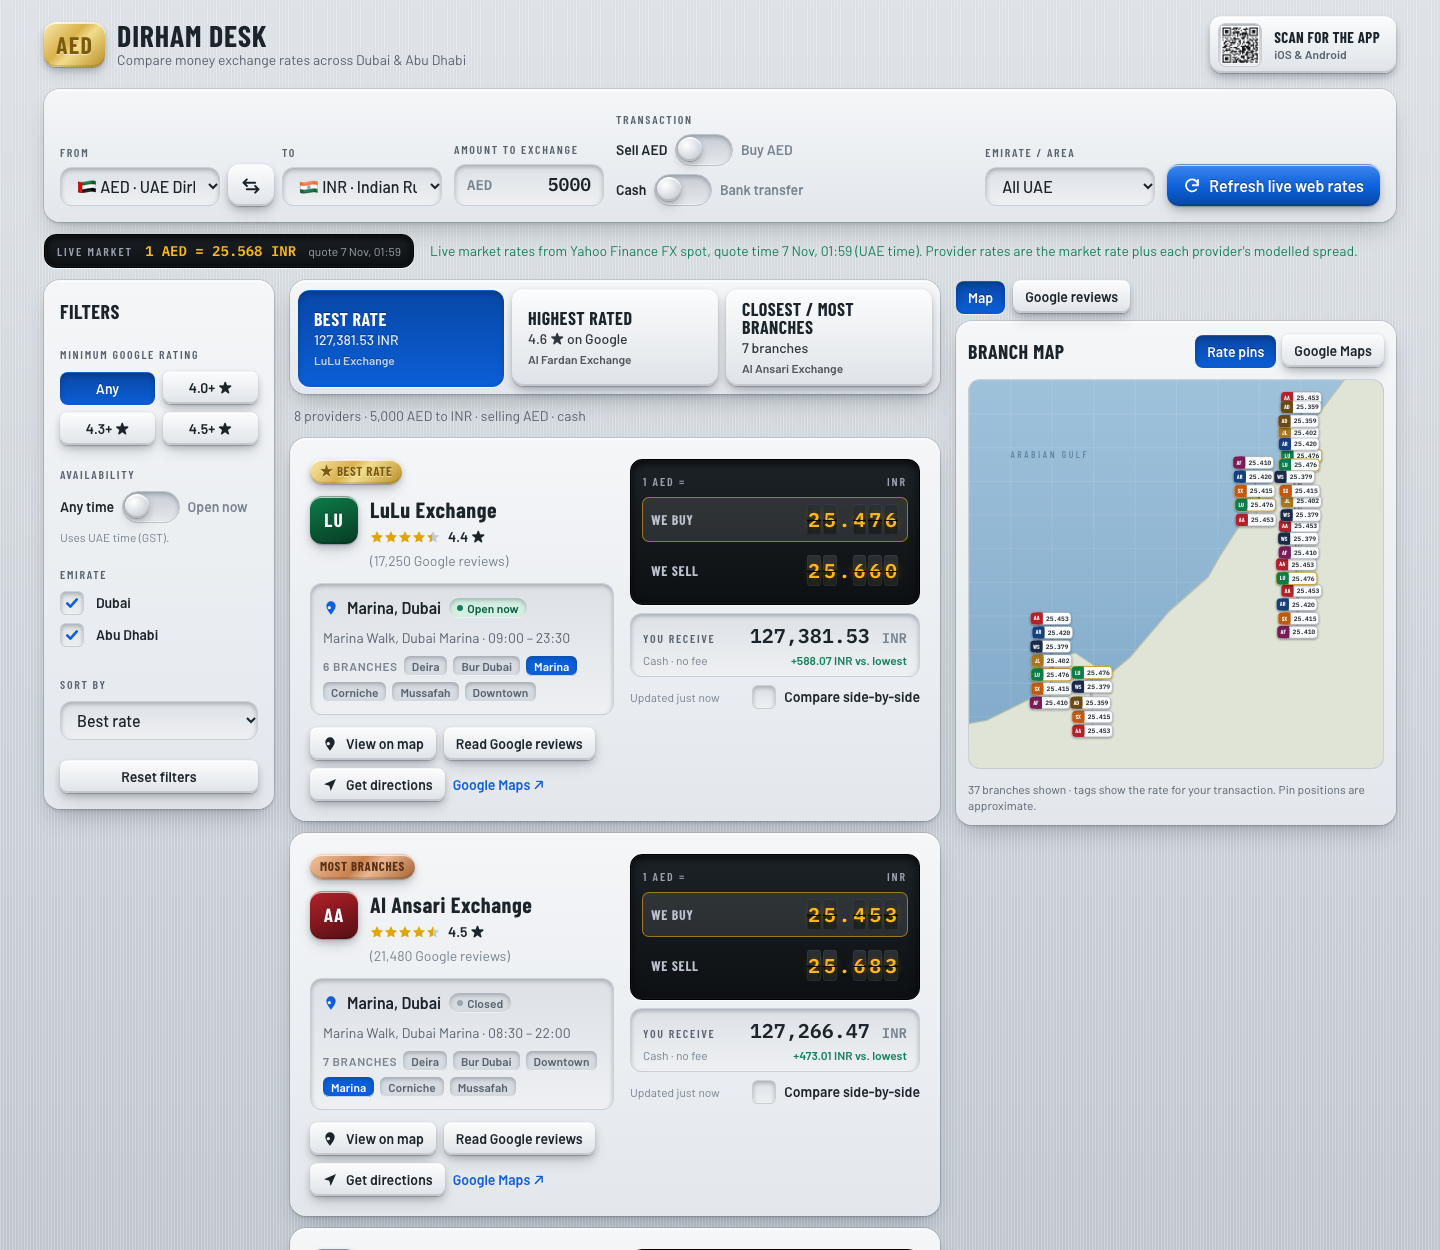
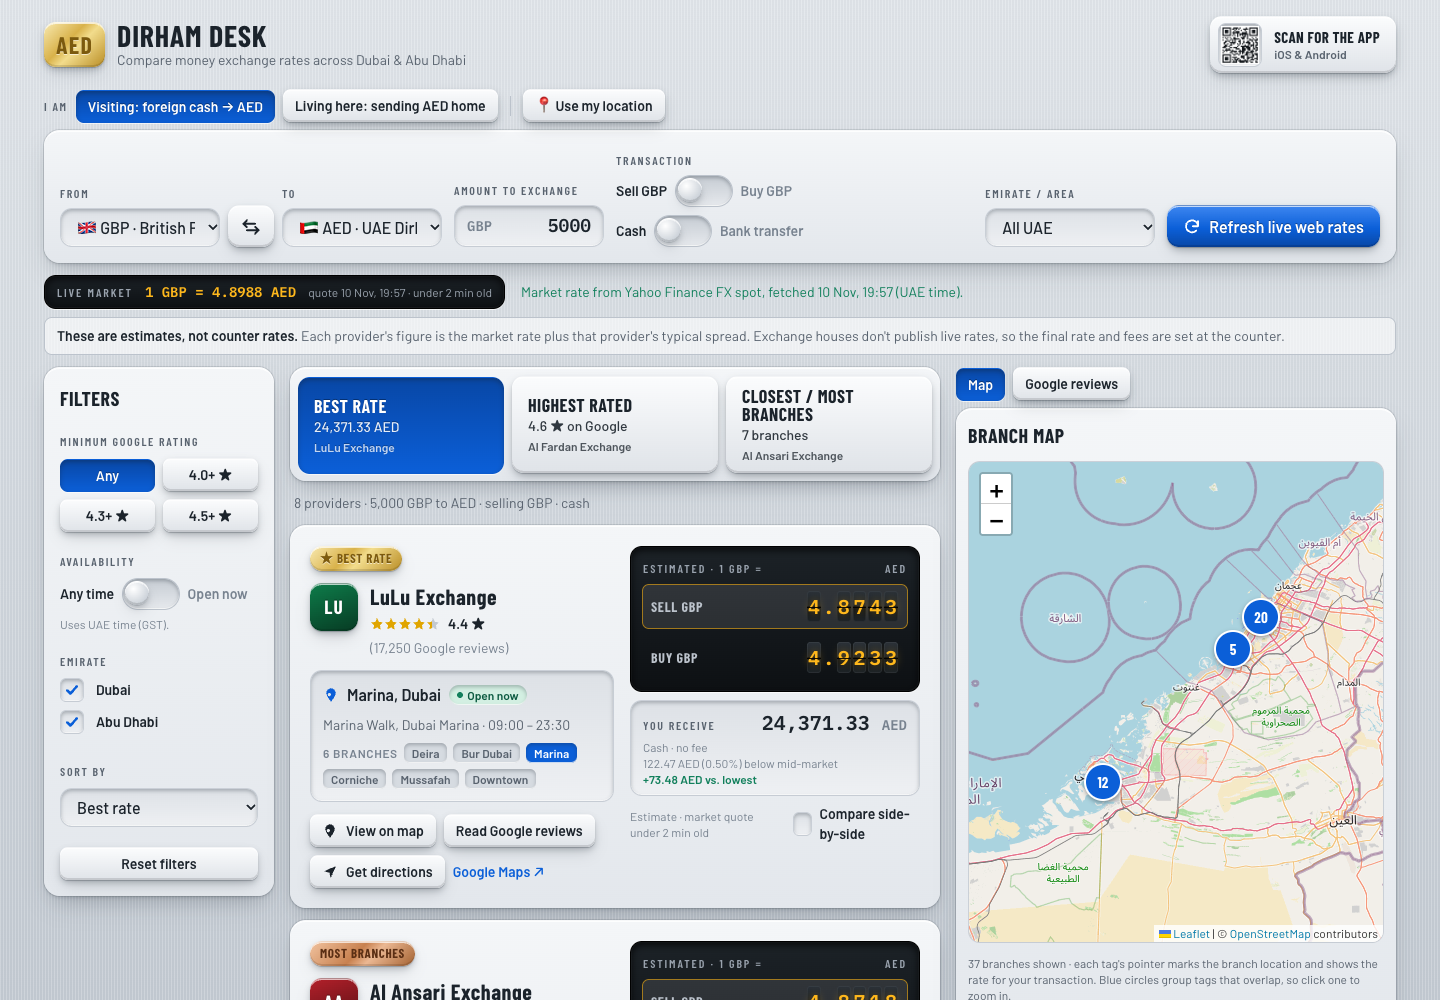
Refresh README screenshot and map/location docs

diff --git a/README.md b/README.md
@@ -40,14 +40,15 @@ Dirham Desk is a React single-page app that lines up exchange houses (Al Ansari,
 ### Results
 - **Three quick-sort tabs** in the Skyscanner style: *Best Rate*, *Highest Rated*, *Closest / Most Branches*. Each tab shows its current winner as a summary line.
   - *Closest* ranks by distance from the selected neighbourhood. With a whole-emirate filter it ranks by branch count.
-- **Provider cards** show the logo plate, Google rating and review count, the nearest matching branch, an open/closed pill (UAE time), branch chips to switch branch, a split-flap board with *We buy* and *We sell* rates, the converted total, fee, savings against the worst offer, and a last-updated line.
+- **Provider cards** show the logo plate, Google rating and review count, the nearest matching branch, an open/closed pill (UAE time), branch chips to switch branch, a split-flap board with estimated *Sell* and *Buy* rates, the converted total, fee, savings against the worst offer, the cost versus the mid-market rate, and the age of the market quote.
 - **Metal badges** mark *Best rate* (gold), *Top rated* (steel) and *Most branches* (copper).
 - **Side-by-side tray**: tick "Compare side-by-side" on 2 to 4 cards and a pinned multi-column table opens. The best value in each row is highlighted.
 - **Left sidebar filters**: minimum Google rating, open now, emirate checkboxes, sort order, reset.
 
 ### Map and reviews
-- **Rate pins map** shows every filtered branch as a tag carrying the provider mark and the rate for your transaction. Tags avoid each other, with leader lines back to the true position. The map zooms to fit the visible pins.
-- **Google Maps tab** embeds the selected branch from Google.
+- **Rate pins map** is a real map (Leaflet on OpenStreetMap tiles). Every filtered branch is a tag carrying the provider mark and the rate for your transaction, and the tag's pointer sits exactly on the branch coordinate. Tags that would overlap group into a count circle; click it to zoom in.
+- **Use my location** (browser geolocation) marks you on the map, features the three nearest branches with straight-line distances, shows a distance on each card and re-ranks the "Closest" sort.
+- **Google Maps button** opens an embed of the selected branch in place, and minimizes back into a button.
 - **Get directions** on every branch deep-links to Google Maps navigation.
 - **Reviews drawer** shows aggregate rating, star ratings, reviewer, branch visited and relative time, filterable by branch.
 
@@ -157,7 +158,7 @@ dxb-fx-compare/
         ├── Sidebar.jsx           Rating, open now, emirate, sort
         ├── SortTabs.jsx          Best Rate / Highest Rated / Closest tabs
         ├── ProviderCard.jsx      Result card with rate board
-        ├── MapPanel.jsx          Rate-pin map and Google Maps embed
+        ├── MapPanel.jsx          Leaflet rate-pin map, location marker and Google Maps button
         ├── ReviewsDrawer.jsx     Reviews view
         ├── CompareTray.jsx       Pinned side-by-side table
         ├── QrBadge.jsx           Header badge, full-screen QR modal, app link constant
@@ -266,8 +267,8 @@ For heavier traffic, cache each symbol for 30 to 60 seconds on the server. Yahoo
 - Provider rates are modelled, not scraped. The market rate is accurate, the counter rate is an estimate.
 - Ratings, reviews, hours and branch pins are sample data until the Places proxy is connected.
 - The Yahoo endpoint is unofficial. It can change or block requests without notice.
-- With "All UAE" selected, around 37 pins fall in a narrow coastal strip. Pick an emirate or neighbourhood for a readable map.
-- The Google Maps tab embeds one branch at a time. A multi-pin Google map would need the Maps JavaScript API and a key.
+- Branch coordinates are placeholders (area centre plus a small offset) until the Places proxy supplies real ones, so "nearest" is only as accurate as that data.
+- The Google Maps button embeds one branch at a time. A multi-pin Google map would need the Maps JavaScript API and a key.
 - Layout has been checked at desktop width. Phone layouts use stacking rules but have had less testing.
 - No automated tests yet.
 
